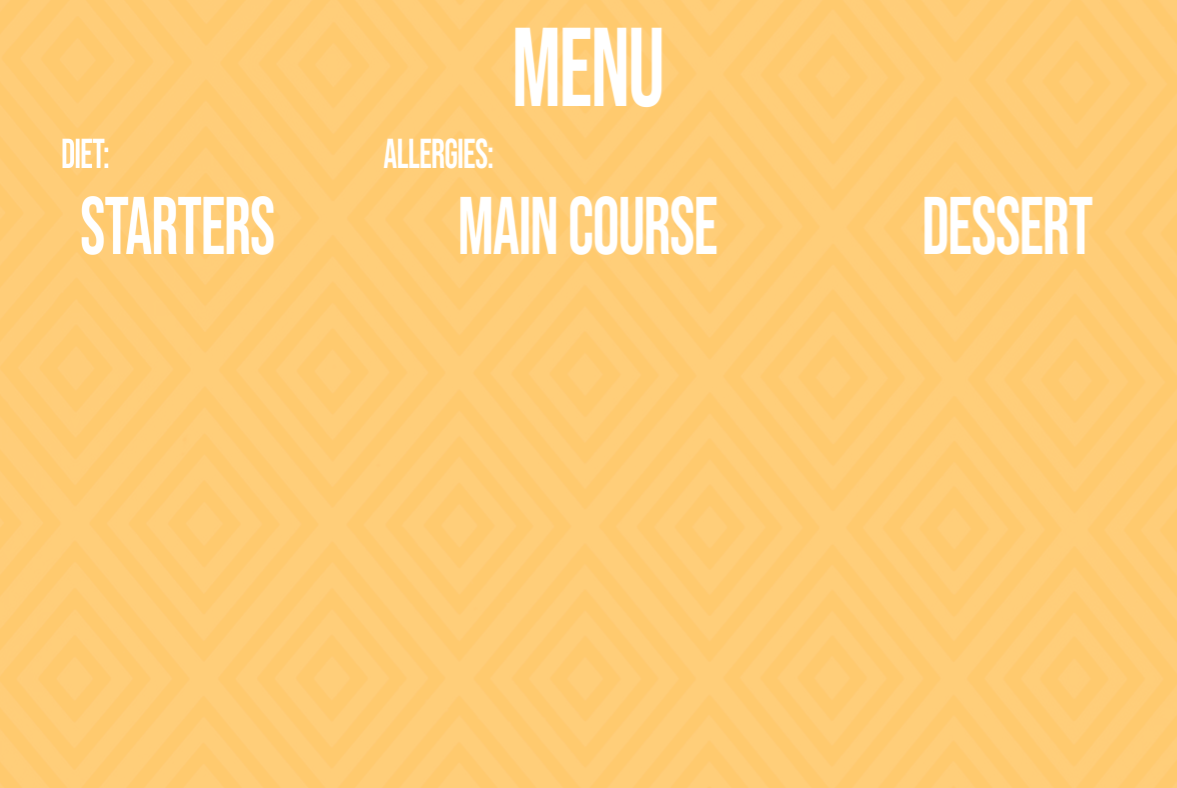
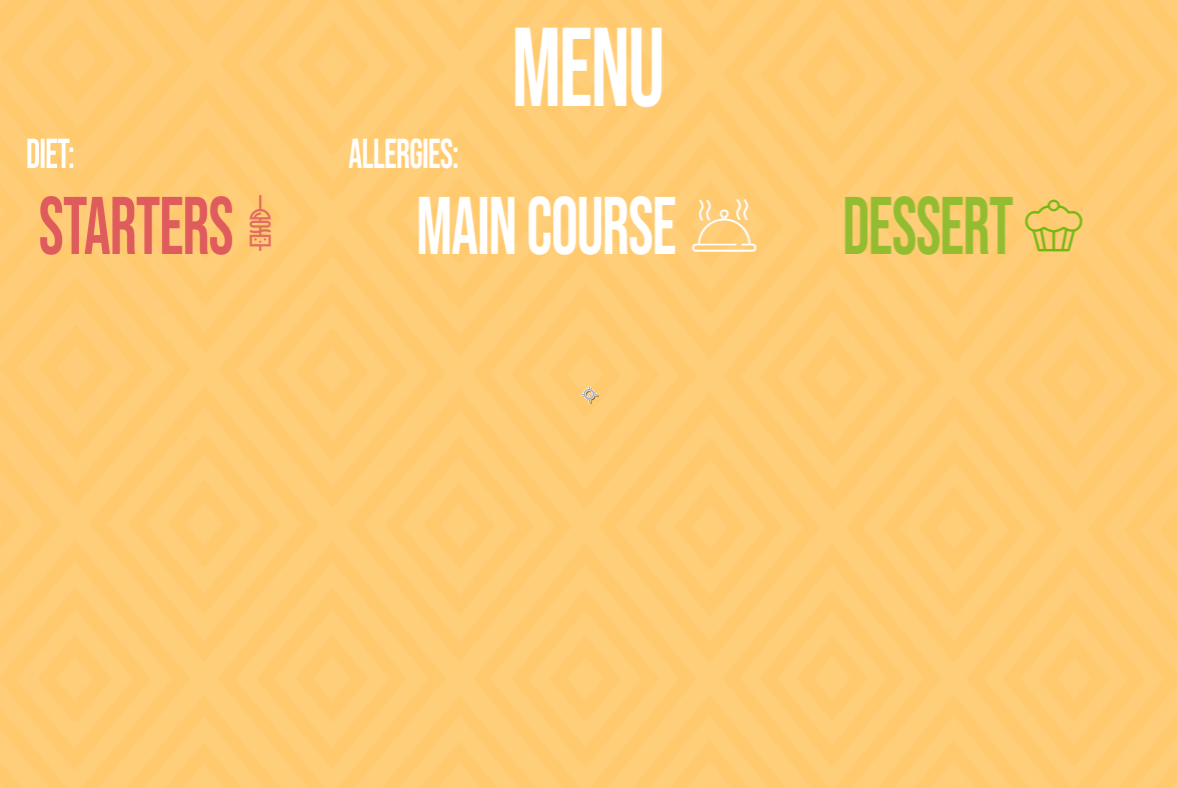
Added and implemented a (temporary?) background for the menu screen and implemented part of the new basket function

diff --git a/src/main/java/uk/ac/rhul/rms/MenuScreenController.java b/src/main/java/uk/ac/rhul/rms/MenuScreenController.java
@@ -1,5 +1,6 @@
 package uk.ac.rhul.rms;
 
+import java.io.File;
 import java.net.URL;
 import java.sql.Connection;
 import java.sql.ResultSet;
@@ -12,6 +13,8 @@ import javafx.event.ActionEvent;
 import javafx.fxml.FXML;
 import javafx.fxml.Initializable;
 import javafx.scene.control.*;
+import javafx.scene.image.Image;
+import javafx.scene.layout.*;
 import javafx.scene.text.Text;
 import uk.ac.rhul.screenmanager.ControlledScreen;
 import uk.ac.rhul.screenmanager.ScreensController;
@@ -92,6 +95,13 @@ public class MenuScreenController implements ControlledScreen, Initializable {
   @FXML
   private Button refresh;
 
+  @FXML
+  private Label items;
+
+  @FXML
+  private Pane pane;
+
+  int count = 0;
 
 
   /**
@@ -293,18 +303,22 @@ public class MenuScreenController implements ControlledScreen, Initializable {
 
     for (int i = 0; i < quantity.getSelectionModel().getSelectedItem(); i++) { // Loop to add
                                                                                // quantity desired.
-
       if (starterList.getSelectionModel().getSelectedItem() != null) {
         basketList.getItems().add(starterList.getSelectionModel().getSelectedItem());
-
+        count++;
+        items.setText("(" + count + ")");
       }
-
 
       if (mainList.getSelectionModel().getSelectedItem() != null) {
         basketList.getItems().add(mainList.getSelectionModel().getSelectedItem());
+        count++;
+        items.setText("(" + count + ")");
       }
+
       if (dessertList.getSelectionModel().getSelectedItem() != null) {
         basketList.getItems().add(dessertList.getSelectionModel().getSelectedItem());
+        count++;
+        items.setText("(" + count + ")");
       }
 
 
@@ -358,5 +372,12 @@ public class MenuScreenController implements ControlledScreen, Initializable {
         FXCollections.observableArrayList(1, 2, 3, 4, 5, 6, 7, 8, 9, 10, 11, 12, 13, 14, 15);
     quantity.setItems(quantityList); // This initialises the drop-down quantity with 3 options 1-10.
     quantity.setValue(1); // Sets the default value of quantity to 1.
+    items.setText("(0)");
+
+    File file = new File("src/main/resources/uk/ac/rhul/rms/media/menu screen.png");
+    Image image = new Image(file.toURI().toString());
+    BackgroundImage backgroundImage = new BackgroundImage(image, BackgroundRepeat.NO_REPEAT, BackgroundRepeat.NO_REPEAT, BackgroundPosition.DEFAULT, new BackgroundSize(1,1, true, true, false,false));
+    Background background = new Background(backgroundImage);
+    pane.setBackground(background);
   }
 }
